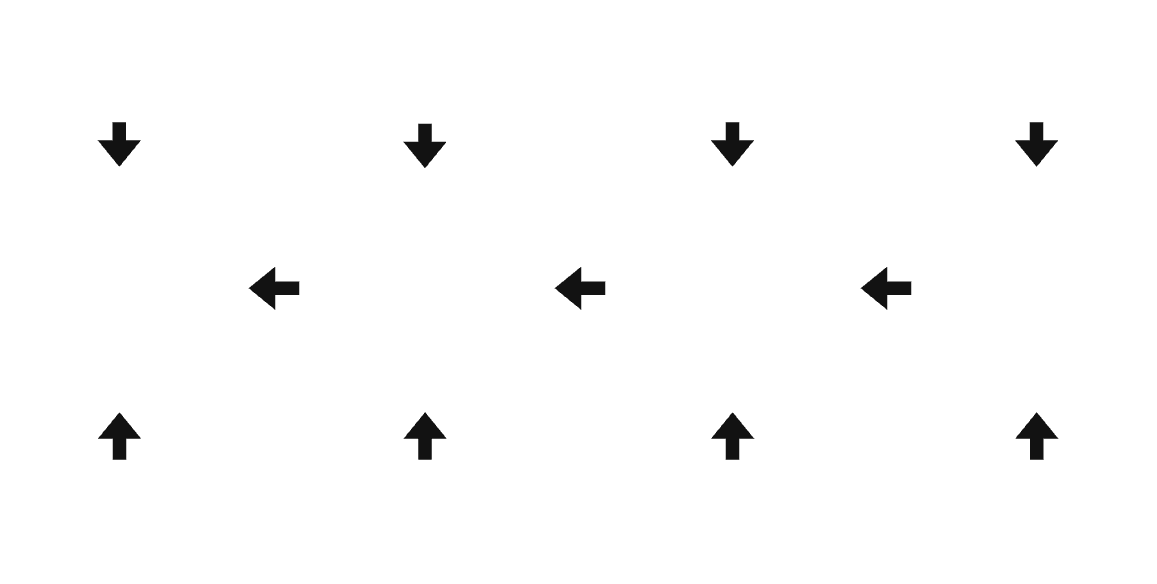
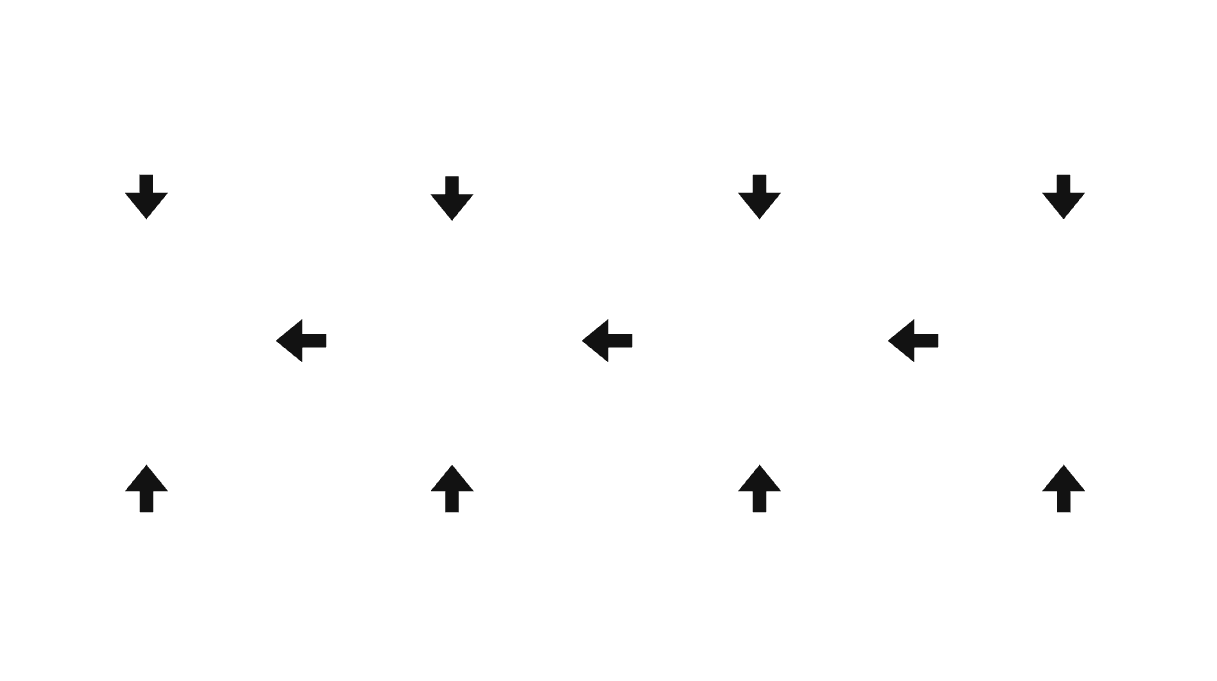
Update diagrams.

diff --git a/app/test.py b/app/test.py
@@ -1,0 +1,23 @@
+import asyncio
+import os
+
+from configurations.di_services import AppDi
+from configurations.configuration_module import ConfigurationModule
+from repositories.social_networks_repository import SocialNetworksRepository
+from tests.mock_input import MockInput
+
+
+module = ConfigurationModule()
+services = AppDi.get_service_collection()
+if module.initialize(services):
+    repo = module.service_provider.get_service(SocialNetworksRepository)
+else:
+    raise Exception("Failed to initialize configuration module.")
+
+def handler(event, context):
+    asyncio.run(repo.tweet("Hello, world! This is a test tweet!"))
+
+
+if __name__ == "__main__":
+    mock_input = MockInput.get_basic_research()
+    handler(mock_input, None)